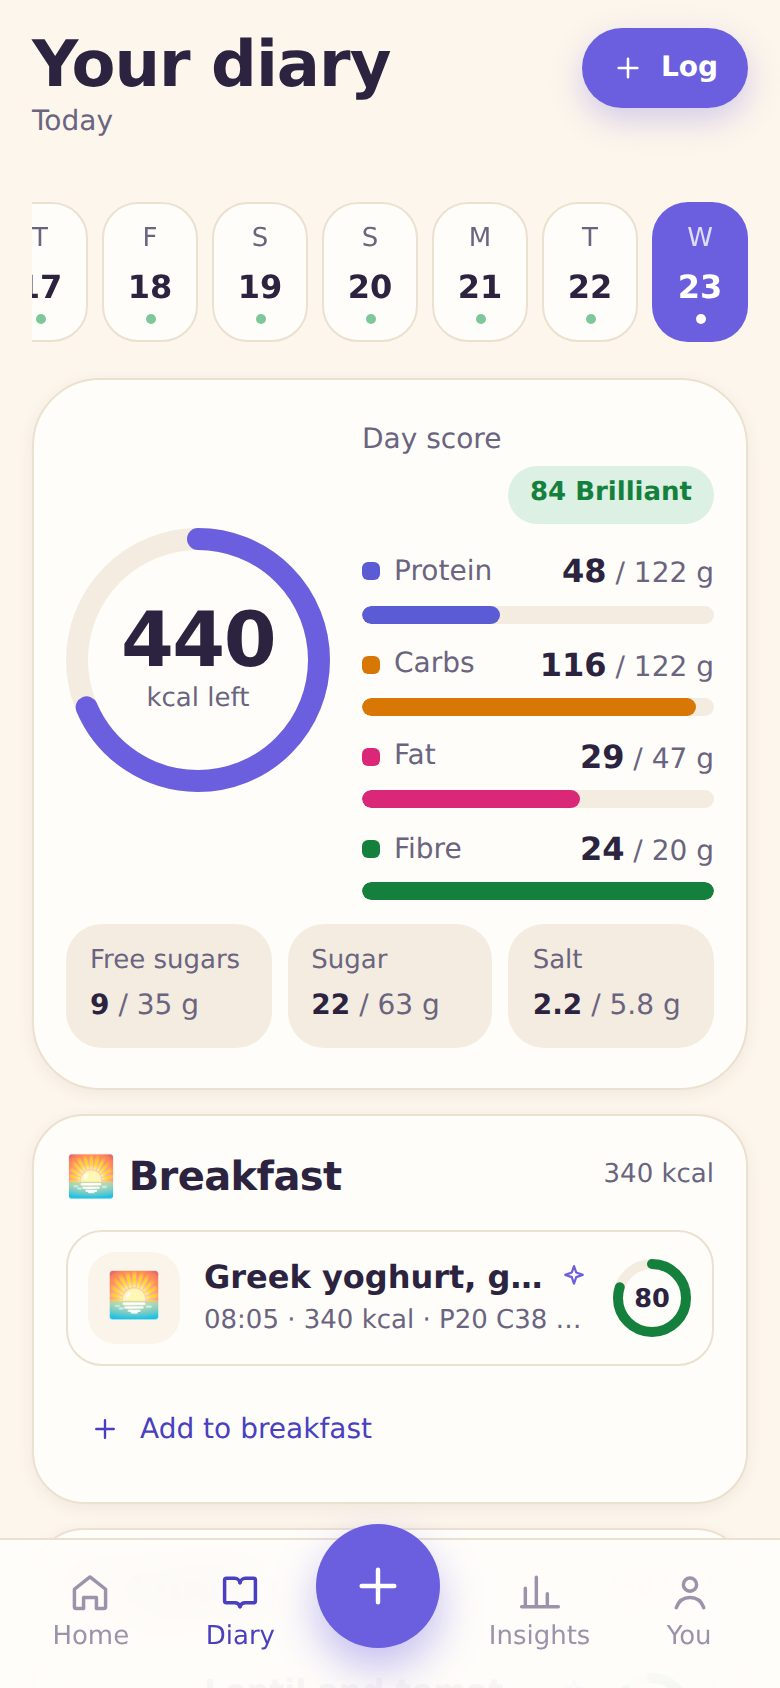
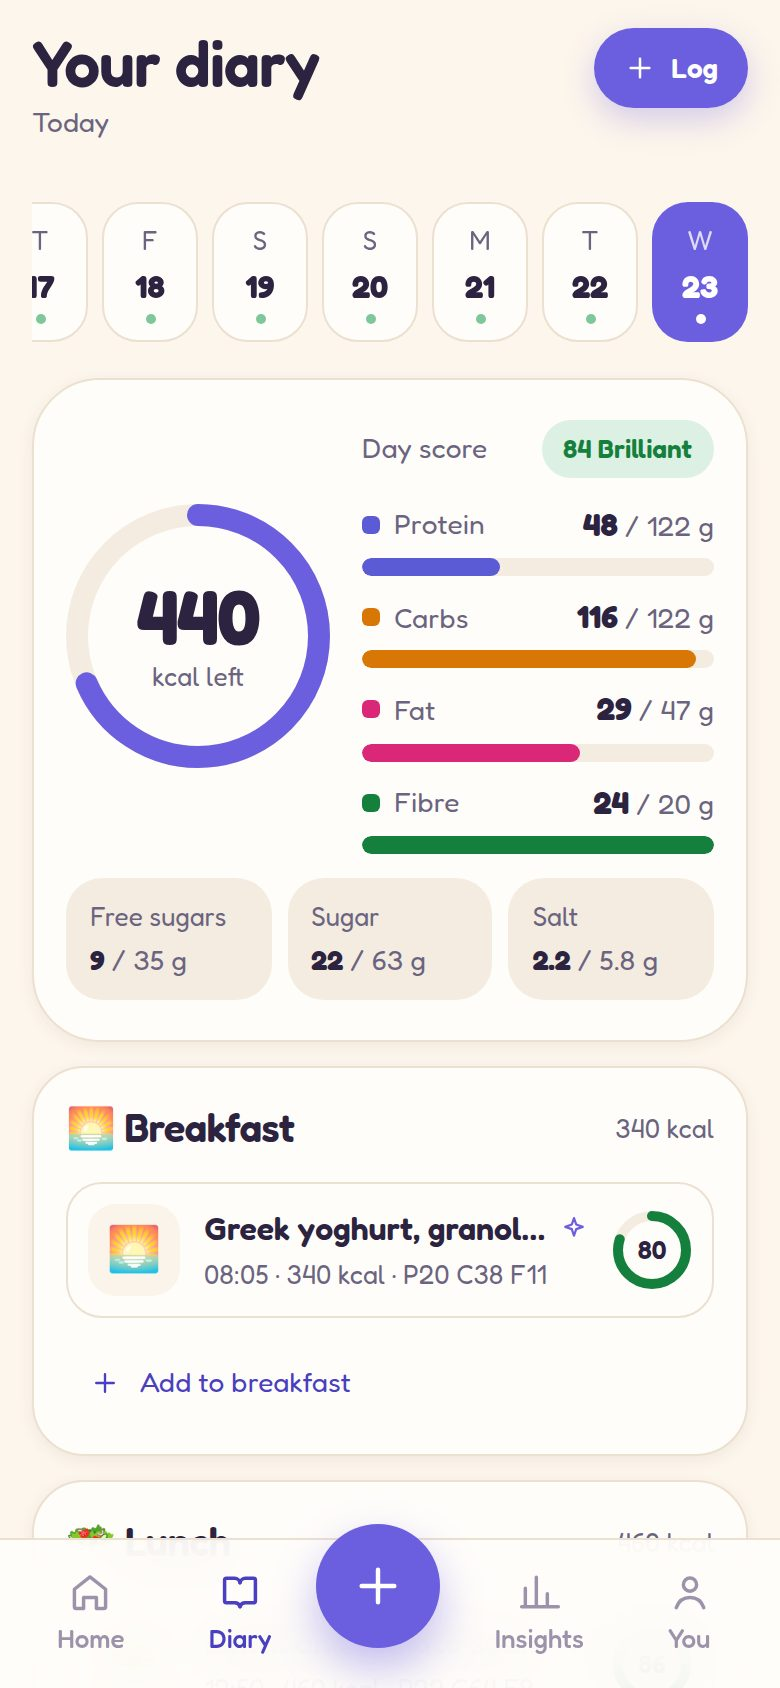
Carry the app's fonts with it instead of loading them from Google
The app fetched Fredoka and Caveat from Google Fonts. Wherever Google is
unreachable the handwriting quietly became a plain serif and the rounded
type a system font, which is how the website's screenshots came out
wrong. The same would happen in the phone apps on a first launch with no
signal, and every visit told Google about itself, beside a privacy
policy that promises no third parties.

Both fonts now come from @fontsource-variable (SIL Open Font License),
declared in src/styles/fonts.css under the names the app already uses,
so nothing else changes. Vite bundles the Latin files and the Latin
Extended ones, which a browser only downloads for a name that needs
them. The website's screenshots are retaken with the right type.

Claude-Session: https://claude.ai/code/session_01LFPtJnTqJzzZxexmm3HvYK

diff --git a/src/styles/fonts.css b/src/styles/fonts.css
@@ -1,0 +1,45 @@
+/*
+ * The app's two typefaces, carried with the app rather than fetched from
+ * Google Fonts. Three reasons: the phone apps must look right with no signal
+ * on first launch; loading a font from Google tells Google about every visit,
+ * which sits badly beside a privacy policy that promises no third parties;
+ * and anywhere Google is unreachable — an office network, a screenshot run —
+ * the handwriting silently became Times New Roman.
+ *
+ * Declared under the names the rest of the app already uses, so nothing else
+ * changes. Latin and Latin Extended only: the browser downloads the second
+ * only when a name like "Łucja" needs it. Both fonts are under the SIL Open
+ * Font License, from @fontsource-variable.
+ */
+@font-face {
+  font-family: 'Fredoka';
+  font-style: normal;
+  font-display: swap;
+  font-weight: 300 700;
+  src: url('@fontsource-variable/fredoka/files/fredoka-latin-wght-normal.woff2') format('woff2-variations');
+  unicode-range: U+0000-00FF, U+0131, U+0152-0153, U+02BB-02BC, U+02C6, U+02DA, U+02DC, U+0304, U+0308, U+0329, U+2000-206F, U+20AC, U+2122, U+2191, U+2193, U+2212, U+2215, U+FEFF, U+FFFD;
+}
+@font-face {
+  font-family: 'Fredoka';
+  font-style: normal;
+  font-display: swap;
+  font-weight: 300 700;
+  src: url('@fontsource-variable/fredoka/files/fredoka-latin-ext-wght-normal.woff2') format('woff2-variations');
+  unicode-range: U+0100-02BA, U+02BD-02C5, U+02C7-02CC, U+02CE-02D7, U+02DD-02FF, U+0304, U+0308, U+0329, U+1D00-1DBF, U+1E00-1E9F, U+1EF2-1EFF, U+2020, U+20A0-20AB, U+20AD-20C0, U+2113, U+2C60-2C7F, U+A720-A7FF;
+}
+@font-face {
+  font-family: 'Caveat';
+  font-style: normal;
+  font-display: swap;
+  font-weight: 400 700;
+  src: url('@fontsource-variable/caveat/files/caveat-latin-wght-normal.woff2') format('woff2-variations');
+  unicode-range: U+0000-00FF, U+0131, U+0152-0153, U+02BB-02BC, U+02C6, U+02DA, U+02DC, U+0304, U+0308, U+0329, U+2000-206F, U+20AC, U+2122, U+2191, U+2193, U+2212, U+2215, U+FEFF, U+FFFD;
+}
+@font-face {
+  font-family: 'Caveat';
+  font-style: normal;
+  font-display: swap;
+  font-weight: 400 700;
+  src: url('@fontsource-variable/caveat/files/caveat-latin-ext-wght-normal.woff2') format('woff2-variations');
+  unicode-range: U+0100-02BA, U+02BD-02C5, U+02C7-02CC, U+02CE-02D7, U+02DD-02FF, U+0304, U+0308, U+0329, U+1D00-1DBF, U+1E00-1E9F, U+1EF2-1EFF, U+2020, U+20A0-20AB, U+20AD-20C0, U+2113, U+2C60-2C7F, U+A720-A7FF;
+}

diff --git a/index.html b/index.html
@@ -10,9 +10,6 @@
     <!-- iOS ignores SVG here: an iPhone added to the home screen needs a PNG. -->
     <link rel="apple-touch-icon" sizes="180x180" href="/apple-touch-icon.png" />
     <link rel="manifest" href="/manifest.webmanifest" />
-    <link rel="preconnect" href="https://fonts.googleapis.com" />
-    <link rel="preconnect" href="https://fonts.gstatic.com" crossorigin />
-    <link href="https://fonts.googleapis.com/css2?family=Fredoka:wght@400;500;600;700&family=Caveat:wght@600;700&display=swap" rel="stylesheet" />
     <title>Squish — Your little health buddy</title>
   </head>
   <body>

diff --git a/src/styles/global.css b/src/styles/global.css
@@ -1,3 +1,4 @@
+@import './fonts.css';
 @import './tokens.css';
 
 * { box-sizing: border-box; -webkit-tap-highlight-color: transparent; }
